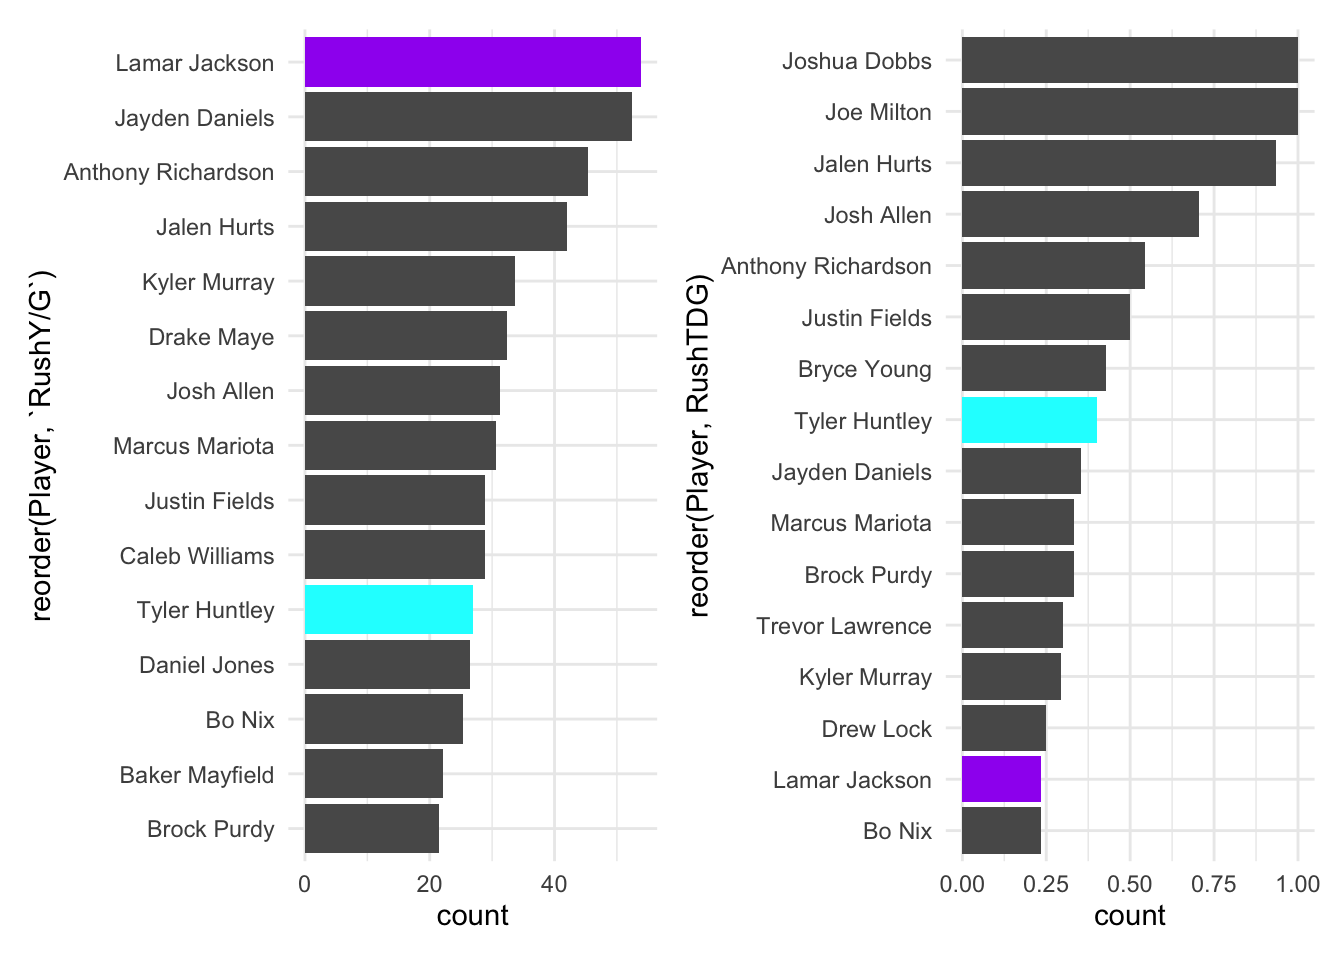
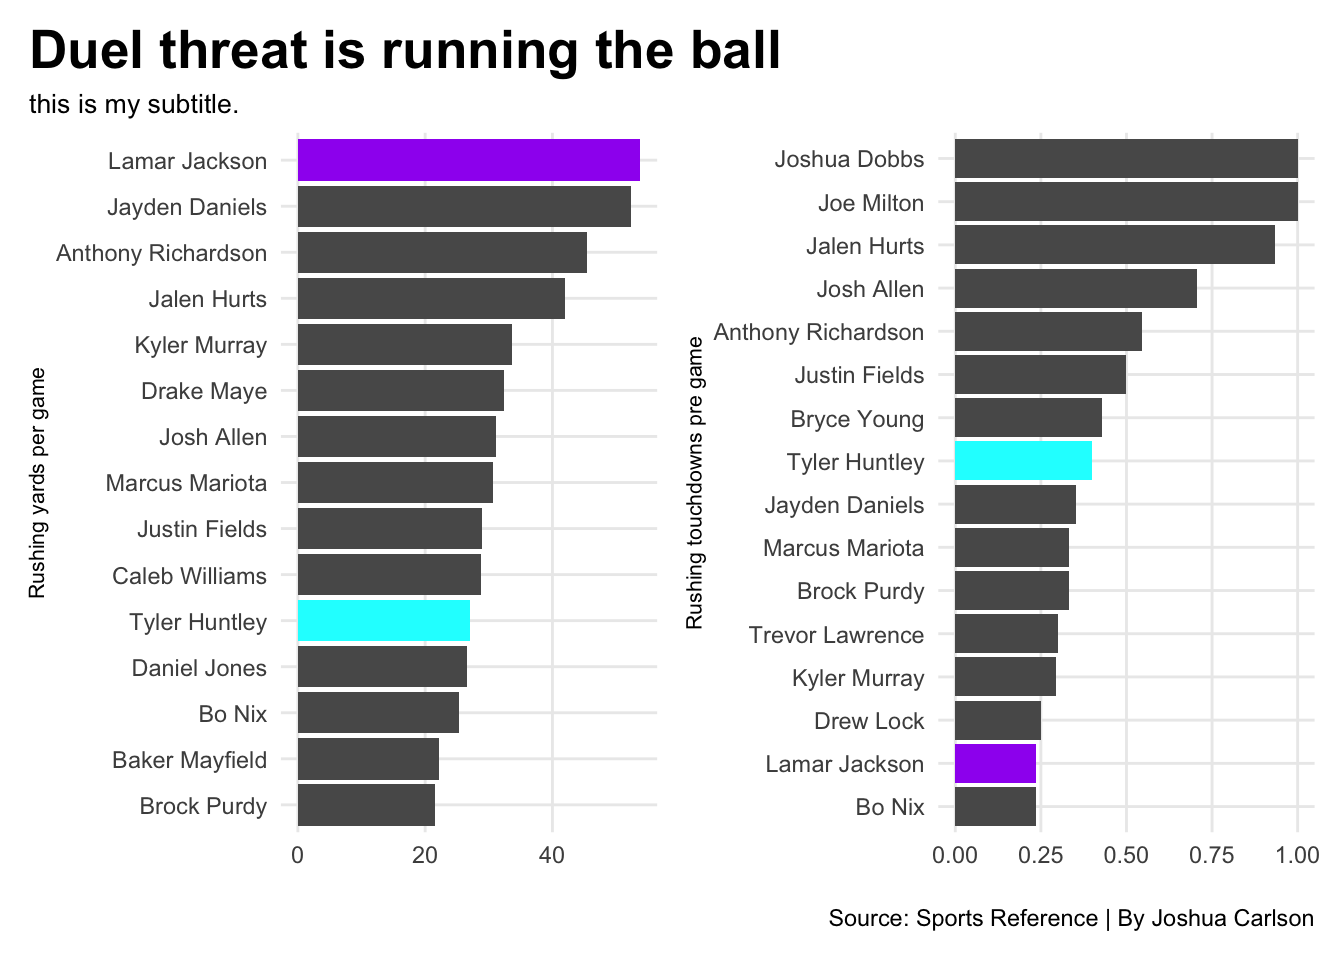
3

Changed region(s): [[0.0, 0.0312, 1.0, 0.9688], [0.0, 0.3125, 0.0625, 0.625], [0.375, 0.4375, 0.4688, 0.4688]]

diff --git a/posts/dual-threat-dilemma/index.html b/posts/dual-threat-dilemma/index.html
@@ -301,17 +301,42 @@ pre > code.sourceCode > span > a:first-child::before { text-decoration: underlin
 <span id="cb2-22"><a href="#cb2-22" aria-hidden="true" tabindex="-1"></a>  <span class="fu">geom_bar</span>(<span class="at">data=</span>Yds, <span class="fu">aes</span>(<span class="at">x=</span><span class="fu">reorder</span>(Player, <span class="st">`</span><span class="at">RushY/G</span><span class="st">`</span>), <span class="at">weight=</span><span class="st">`</span><span class="at">RushY/G</span><span class="st">`</span>)) <span class="sc">+</span></span>
 <span id="cb2-23"><a href="#cb2-23" aria-hidden="true" tabindex="-1"></a>    <span class="fu">geom_bar</span>(<span class="at">data=</span>LJR, <span class="fu">aes</span>(<span class="at">x=</span><span class="fu">reorder</span>(Player, <span class="st">`</span><span class="at">RushY/G</span><span class="st">`</span>), <span class="at">weight=</span><span class="st">`</span><span class="at">RushY/G</span><span class="st">`</span>), <span class="at">fill=</span><span class="st">"purple"</span>) <span class="sc">+</span></span>
 <span id="cb2-24"><a href="#cb2-24" aria-hidden="true" tabindex="-1"></a>    <span class="fu">geom_bar</span>(<span class="at">data=</span>THR, <span class="fu">aes</span>(<span class="at">x=</span><span class="fu">reorder</span>(Player, <span class="st">`</span><span class="at">RushY/G</span><span class="st">`</span>), <span class="at">weight=</span><span class="st">`</span><span class="at">RushY/G</span><span class="st">`</span>), <span class="at">fill=</span><span class="st">"cyan"</span>) <span class="sc">+</span></span>
-<span id="cb2-25"><a href="#cb2-25" aria-hidden="true" tabindex="-1"></a>  <span class="fu">coord_flip</span>()<span class="sc">+</span></span>
-<span id="cb2-26"><a href="#cb2-26" aria-hidden="true" tabindex="-1"></a>  <span class="fu">theme_minimal</span>()</span>
-<span id="cb2-27"><a href="#cb2-27" aria-hidden="true" tabindex="-1"></a></span>
-<span id="cb2-28"><a href="#cb2-28" aria-hidden="true" tabindex="-1"></a>TDbar<span class="ot">&lt;-</span> <span class="fu">ggplot</span>() <span class="sc">+</span></span>
-<span id="cb2-29"><a href="#cb2-29" aria-hidden="true" tabindex="-1"></a>  <span class="fu">geom_bar</span>(<span class="at">data=</span>TD, <span class="fu">aes</span>(<span class="at">x=</span><span class="fu">reorder</span>(Player, RushTDG), <span class="at">weight=</span>RushTDG)) <span class="sc">+</span></span>
-<span id="cb2-30"><a href="#cb2-30" aria-hidden="true" tabindex="-1"></a>  <span class="fu">geom_bar</span>(<span class="at">data=</span>LJR, <span class="fu">aes</span>(<span class="at">x=</span><span class="fu">reorder</span>(Player, RushTDG), <span class="at">weight=</span>RushTDG), <span class="at">fill=</span><span class="st">"purple"</span>) <span class="sc">+</span></span>
-<span id="cb2-31"><a href="#cb2-31" aria-hidden="true" tabindex="-1"></a>  <span class="fu">geom_bar</span>(<span class="at">data=</span>THR, <span class="fu">aes</span>(<span class="at">x=</span><span class="fu">reorder</span>(Player, RushTDG), <span class="at">weight=</span>RushTDG), <span class="at">fill=</span><span class="st">"cyan"</span>) <span class="sc">+</span></span>
-<span id="cb2-32"><a href="#cb2-32" aria-hidden="true" tabindex="-1"></a>  <span class="fu">coord_flip</span>()<span class="sc">+</span></span>
-<span id="cb2-33"><a href="#cb2-33" aria-hidden="true" tabindex="-1"></a>  <span class="fu">theme_minimal</span>()</span>
-<span id="cb2-34"><a href="#cb2-34" aria-hidden="true" tabindex="-1"></a></span>
-<span id="cb2-35"><a href="#cb2-35" aria-hidden="true" tabindex="-1"></a>Ydsbar <span class="sc">+</span> TDbar</span></code></pre></div><button title="Copy to Clipboard" class="code-copy-button"><i class="bi"></i></button></div>
+<span id="cb2-25"><a href="#cb2-25" aria-hidden="true" tabindex="-1"></a>  <span class="fu">coord_flip</span>()<span class="sc">+</span> </span>
+<span id="cb2-26"><a href="#cb2-26" aria-hidden="true" tabindex="-1"></a>  <span class="fu">labs</span>(</span>
+<span id="cb2-27"><a href="#cb2-27" aria-hidden="true" tabindex="-1"></a>    <span class="at">x=</span><span class="st">"Rushing yards per game"</span>, </span>
+<span id="cb2-28"><a href="#cb2-28" aria-hidden="true" tabindex="-1"></a>    <span class="at">y=</span><span class="st">""</span>, </span>
+<span id="cb2-29"><a href="#cb2-29" aria-hidden="true" tabindex="-1"></a>    <span class="at">title=</span><span class="st">"Duel threat is running the ball"</span>, </span>
+<span id="cb2-30"><a href="#cb2-30" aria-hidden="true" tabindex="-1"></a>    <span class="at">subtitle=</span><span class="st">"this is my subtitle."</span></span>
+<span id="cb2-31"><a href="#cb2-31" aria-hidden="true" tabindex="-1"></a>    ) <span class="sc">+</span></span>
+<span id="cb2-32"><a href="#cb2-32" aria-hidden="true" tabindex="-1"></a>  <span class="fu">theme_minimal</span>() <span class="sc">+</span> </span>
+<span id="cb2-33"><a href="#cb2-33" aria-hidden="true" tabindex="-1"></a>  <span class="fu">theme</span>(</span>
+<span id="cb2-34"><a href="#cb2-34" aria-hidden="true" tabindex="-1"></a>    <span class="at">plot.title =</span> <span class="fu">element_text</span>(<span class="at">size =</span> <span class="dv">20</span>, <span class="at">face =</span> <span class="st">"bold"</span>),</span>
+<span id="cb2-35"><a href="#cb2-35" aria-hidden="true" tabindex="-1"></a>    <span class="at">axis.title =</span> <span class="fu">element_text</span>(<span class="at">size =</span> <span class="dv">8</span>), </span>
+<span id="cb2-36"><a href="#cb2-36" aria-hidden="true" tabindex="-1"></a>    <span class="at">plot.subtitle =</span> <span class="fu">element_text</span>(<span class="at">size=</span><span class="dv">10</span>), </span>
+<span id="cb2-37"><a href="#cb2-37" aria-hidden="true" tabindex="-1"></a>    <span class="at">panel.grid.minor =</span> <span class="fu">element_blank</span>(),</span>
+<span id="cb2-38"><a href="#cb2-38" aria-hidden="true" tabindex="-1"></a>    <span class="at">plot.title.position =</span> <span class="st">"plot"</span></span>
+<span id="cb2-39"><a href="#cb2-39" aria-hidden="true" tabindex="-1"></a>    ) </span>
+<span id="cb2-40"><a href="#cb2-40" aria-hidden="true" tabindex="-1"></a></span>
+<span id="cb2-41"><a href="#cb2-41" aria-hidden="true" tabindex="-1"></a>TDbar<span class="ot">&lt;-</span> <span class="fu">ggplot</span>() <span class="sc">+</span></span>
+<span id="cb2-42"><a href="#cb2-42" aria-hidden="true" tabindex="-1"></a>  <span class="fu">geom_bar</span>(<span class="at">data=</span>TD, <span class="fu">aes</span>(<span class="at">x=</span><span class="fu">reorder</span>(Player, RushTDG), <span class="at">weight=</span>RushTDG)) <span class="sc">+</span></span>
+<span id="cb2-43"><a href="#cb2-43" aria-hidden="true" tabindex="-1"></a>  <span class="fu">geom_bar</span>(<span class="at">data=</span>LJR, <span class="fu">aes</span>(<span class="at">x=</span><span class="fu">reorder</span>(Player, RushTDG), <span class="at">weight=</span>RushTDG), <span class="at">fill=</span><span class="st">"purple"</span>) <span class="sc">+</span></span>
+<span id="cb2-44"><a href="#cb2-44" aria-hidden="true" tabindex="-1"></a>  <span class="fu">geom_bar</span>(<span class="at">data=</span>THR, <span class="fu">aes</span>(<span class="at">x=</span><span class="fu">reorder</span>(Player, RushTDG), <span class="at">weight=</span>RushTDG), <span class="at">fill=</span><span class="st">"cyan"</span>) <span class="sc">+</span></span>
+<span id="cb2-45"><a href="#cb2-45" aria-hidden="true" tabindex="-1"></a>  <span class="fu">coord_flip</span>()<span class="sc">+</span></span>
+<span id="cb2-46"><a href="#cb2-46" aria-hidden="true" tabindex="-1"></a>  <span class="fu">labs</span>(</span>
+<span id="cb2-47"><a href="#cb2-47" aria-hidden="true" tabindex="-1"></a>    <span class="at">x=</span><span class="st">"Rushing touchdowns pre game"</span>, </span>
+<span id="cb2-48"><a href="#cb2-48" aria-hidden="true" tabindex="-1"></a>    <span class="at">y=</span><span class="st">""</span>, </span>
+<span id="cb2-49"><a href="#cb2-49" aria-hidden="true" tabindex="-1"></a>    <span class="at">caption=</span><span class="st">"Source: Sports Reference | By Joshua Carlson"</span></span>
+<span id="cb2-50"><a href="#cb2-50" aria-hidden="true" tabindex="-1"></a>    ) <span class="sc">+</span></span>
+<span id="cb2-51"><a href="#cb2-51" aria-hidden="true" tabindex="-1"></a>  <span class="fu">theme_minimal</span>() <span class="sc">+</span> </span>
+<span id="cb2-52"><a href="#cb2-52" aria-hidden="true" tabindex="-1"></a>  <span class="fu">theme</span>(</span>
+<span id="cb2-53"><a href="#cb2-53" aria-hidden="true" tabindex="-1"></a>    <span class="at">plot.title =</span> <span class="fu">element_text</span>(<span class="at">size =</span> <span class="dv">20</span>, <span class="at">face =</span> <span class="st">"bold"</span>),</span>
+<span id="cb2-54"><a href="#cb2-54" aria-hidden="true" tabindex="-1"></a>    <span class="at">axis.title =</span> <span class="fu">element_text</span>(<span class="at">size =</span> <span class="dv">8</span>), </span>
+<span id="cb2-55"><a href="#cb2-55" aria-hidden="true" tabindex="-1"></a>    <span class="at">plot.subtitle =</span> <span class="fu">element_text</span>(<span class="at">size=</span><span class="dv">10</span>), </span>
+<span id="cb2-56"><a href="#cb2-56" aria-hidden="true" tabindex="-1"></a>    <span class="at">panel.grid.minor =</span> <span class="fu">element_blank</span>(),</span>
+<span id="cb2-57"><a href="#cb2-57" aria-hidden="true" tabindex="-1"></a>    <span class="at">plot.title.position =</span> <span class="st">"plot"</span></span>
+<span id="cb2-58"><a href="#cb2-58" aria-hidden="true" tabindex="-1"></a>    ) </span>
+<span id="cb2-59"><a href="#cb2-59" aria-hidden="true" tabindex="-1"></a></span>
+<span id="cb2-60"><a href="#cb2-60" aria-hidden="true" tabindex="-1"></a>Ydsbar <span class="sc">+</span> TDbar</span></code></pre></div><button title="Copy to Clipboard" class="code-copy-button"><i class="bi"></i></button></div>
 </details>
 <div class="cell-output-display">
 <div>
@@ -331,17 +356,24 @@ pre > code.sourceCode > span > a:first-child::before { text-decoration: underlin
 <span id="cb3-4"><a href="#cb3-4" aria-hidden="true" tabindex="-1"></a><span class="fu">iron</span>(</span>
 <span id="cb3-5"><a href="#cb3-5" aria-hidden="true" tabindex="-1"></a> <span class="fu">waffle</span>(LJI, </span>
 <span id="cb3-6"><a href="#cb3-6" aria-hidden="true" tabindex="-1"></a>        <span class="at">rows =</span> <span class="dv">2</span>, </span>
-<span id="cb3-7"><a href="#cb3-7" aria-hidden="true" tabindex="-1"></a>        <span class="at">title=</span><span class="st">"Lamar Jackson Turnovers"</span>, </span>
-<span id="cb3-8"><a href="#cb3-8" aria-hidden="true" tabindex="-1"></a>        <span class="at">xlab=</span><span class="st">"1 square = 1 turnover"</span>, </span>
-<span id="cb3-9"><a href="#cb3-9" aria-hidden="true" tabindex="-1"></a>        <span class="at">colors =</span> <span class="fu">c</span>(<span class="st">"black"</span>, <span class="st">"purple"</span>)</span>
-<span id="cb3-10"><a href="#cb3-10" aria-hidden="true" tabindex="-1"></a>        ),</span>
-<span id="cb3-11"><a href="#cb3-11" aria-hidden="true" tabindex="-1"></a> <span class="fu">waffle</span>(THI, </span>
-<span id="cb3-12"><a href="#cb3-12" aria-hidden="true" tabindex="-1"></a>        <span class="at">rows =</span> <span class="dv">2</span>, </span>
-<span id="cb3-13"><a href="#cb3-13" aria-hidden="true" tabindex="-1"></a>        <span class="at">title=</span><span class="st">"Tyler Huntley Turnovers"</span>, </span>
-<span id="cb3-14"><a href="#cb3-14" aria-hidden="true" tabindex="-1"></a>        <span class="at">xlab=</span><span class="st">"1 square = 1 turnover"</span>, </span>
-<span id="cb3-15"><a href="#cb3-15" aria-hidden="true" tabindex="-1"></a>        <span class="at">colors =</span> <span class="fu">c</span>(<span class="st">"black"</span>, <span class="st">"cyan"</span>, <span class="st">"white"</span>)</span>
-<span id="cb3-16"><a href="#cb3-16" aria-hidden="true" tabindex="-1"></a>        )</span>
-<span id="cb3-17"><a href="#cb3-17" aria-hidden="true" tabindex="-1"></a>)</span></code></pre></div><button title="Copy to Clipboard" class="code-copy-button"><i class="bi"></i></button></div>
+<span id="cb3-7"><a href="#cb3-7" aria-hidden="true" tabindex="-1"></a>   <span class="at">colors =</span> <span class="fu">c</span>(<span class="st">"black"</span>, <span class="st">"purple"</span>)) <span class="sc">+</span> </span>
+<span id="cb3-8"><a href="#cb3-8" aria-hidden="true" tabindex="-1"></a>   <span class="fu">labs</span>(</span>
+<span id="cb3-9"><a href="#cb3-9" aria-hidden="true" tabindex="-1"></a>     <span class="at">x=</span><span class="st">"Lamar Jackson Turnovers"</span>,</span>
+<span id="cb3-10"><a href="#cb3-10" aria-hidden="true" tabindex="-1"></a>     <span class="at">title=</span><span class="st">"The problems when you put a runningback at quarterback"</span>, </span>
+<span id="cb3-11"><a href="#cb3-11" aria-hidden="true" tabindex="-1"></a>     <span class="at">subtitle=</span><span class="st">"Tyler Huntly almost turned the ball over as much as Lamar in only five games."</span>) <span class="sc">+</span> </span>
+<span id="cb3-12"><a href="#cb3-12" aria-hidden="true" tabindex="-1"></a>   <span class="fu">theme</span>(</span>
+<span id="cb3-13"><a href="#cb3-13" aria-hidden="true" tabindex="-1"></a>    <span class="at">plot.title =</span> <span class="fu">element_text</span>(<span class="at">size =</span> <span class="dv">16</span>, <span class="at">face =</span> <span class="st">"bold"</span>),</span>
+<span id="cb3-14"><a href="#cb3-14" aria-hidden="true" tabindex="-1"></a>    <span class="at">axis.title =</span> <span class="fu">element_text</span>(<span class="at">size =</span> <span class="dv">10</span>),</span>
+<span id="cb3-15"><a href="#cb3-15" aria-hidden="true" tabindex="-1"></a>    <span class="at">axis.title.y =</span> <span class="fu">element_blank</span>()</span>
+<span id="cb3-16"><a href="#cb3-16" aria-hidden="true" tabindex="-1"></a>  ),</span>
+<span id="cb3-17"><a href="#cb3-17" aria-hidden="true" tabindex="-1"></a> <span class="fu">waffle</span>(THI, </span>
+<span id="cb3-18"><a href="#cb3-18" aria-hidden="true" tabindex="-1"></a>        <span class="at">rows =</span> <span class="dv">2</span>,</span>
+<span id="cb3-19"><a href="#cb3-19" aria-hidden="true" tabindex="-1"></a>   <span class="at">colors =</span> <span class="fu">c</span>(<span class="st">"black"</span>, <span class="st">"cyan"</span>, <span class="st">"white"</span>)) <span class="sc">+</span></span>
+<span id="cb3-20"><a href="#cb3-20" aria-hidden="true" tabindex="-1"></a>   <span class="fu">labs</span>(</span>
+<span id="cb3-21"><a href="#cb3-21" aria-hidden="true" tabindex="-1"></a>     <span class="at">x =</span> <span class="st">"Tyler Huntley Turnovers</span><span class="sc">\n</span><span class="st">1 square = 1 turnover"</span>,</span>
+<span id="cb3-22"><a href="#cb3-22" aria-hidden="true" tabindex="-1"></a>     <span class="at">caption=</span><span class="st">"Source: Sports Reference | Graphic by Joshua Carlson"</span></span>
+<span id="cb3-23"><a href="#cb3-23" aria-hidden="true" tabindex="-1"></a>     )</span>
+<span id="cb3-24"><a href="#cb3-24" aria-hidden="true" tabindex="-1"></a>) </span></code></pre></div><button title="Copy to Clipboard" class="code-copy-button"><i class="bi"></i></button></div>
 </details>
 <div class="cell-output-display">
 <div>

diff --git a/index.html b/index.html
@@ -209,7 +209,7 @@ window.Quarto = {
 
 <div class="quarto-listing quarto-listing-container-default" id="listing-listing">
 <div class="list quarto-listing-default">
-<div class="quarto-post image-right" data-index="0" data-categories="bmZsJTJDZm9vdGJhbGw=" data-listing-date-sort="1763359200000" data-listing-file-modified-sort="1763150052365" data-listing-date-modified-sort="NaN" data-listing-reading-time-sort="3" data-listing-word-count-sort="542">
+<div class="quarto-post image-right" data-index="0" data-categories="bmZsJTJDZm9vdGJhbGw=" data-listing-date-sort="1763359200000" data-listing-file-modified-sort="1763151674313" data-listing-date-modified-sort="NaN" data-listing-reading-time-sort="4" data-listing-word-count-sort="743">
 <div class="thumbnail"><a href="./posts/dual-threat-dilemma/index.html" class="no-external">
 
 <img loading="lazy" src="./posts/dual-threat-dilemma/image.png" class="thumbnail-image">
